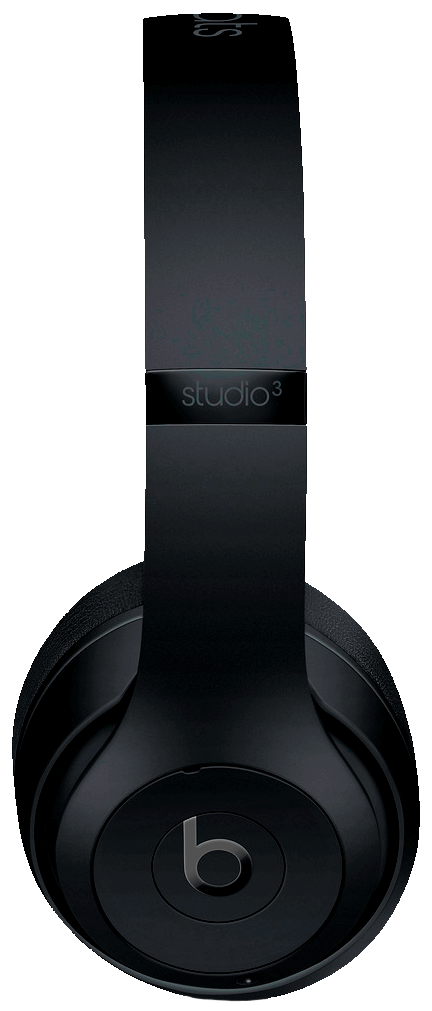
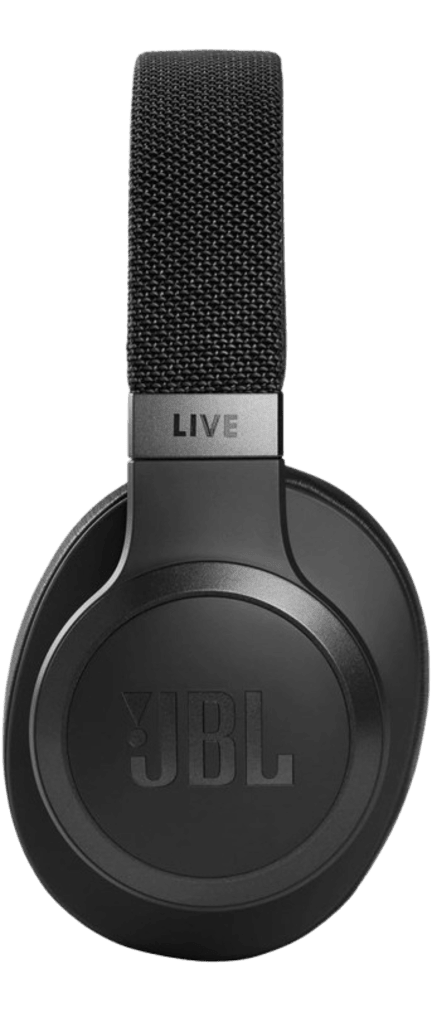
change brand to JBL

diff --git a/index.html b/index.html
@@ -5,7 +5,7 @@
     <meta name="viewport" content="width=device-width, initial-scale=1.0" />
 
     <!--=============== FAVICON ===============-->
-    <link rel="shortcut icon" href="img/favicon.png" type="image/x-icon" />
+    <link rel="shortcut icon" href="img/headphone.png" type="image/x-icon" />
 
     <!--=============== REMIX ICONS ===============-->
     <link
@@ -16,14 +16,14 @@
     <!--=============== CSS ===============-->
     <link rel="stylesheet" href="css/styles.css" />
 
-    <title>Headphones Website</title>
+    <title>JBL Headphones Website</title>
   </head>
   <body>
     <!--=============== HEADER ===============-->
     <header class="header" id="header">
       <nav class="nav container">
         <a href="#" class="nav_logo">
-          <img src="img/logo.png" alt="image" />
+          <img src="img/logo-img.png" alt="image" />
         </a>
 
         <div class="nav_menu" id="nav-menu">
@@ -62,16 +62,16 @@
 
           <div class="home_data">
             <div class="home_header">
-              <h1 class="home_title">On Ear</h1>
-              <h2 class="home_subtitle">Beats 3</h2>
+              <h1 class="home_title">Over-ear</h1>
+              <h2 class="home_subtitle">JBL 660</h2>
             </div>
 
             <div class="home_footer">
               <h3 class="home_title-description">Overview</h3>
               <p class="home_description">
-                Enjoy award-winning Beats sound with wireless listening freedom
-                and a sleek, streamlined design with comfortable padded
-                earphones, delivering first-rate playback.
+                Enjoy award-winning JBL sound with wireless listening freedom
+                and a sleek, streamlined design with comfortable cushioned
+                earcups that deliver premium playback for the user.
               </p>
               <a href="#" class="button button--flex">
                 <span class="button--flex">
@@ -127,7 +127,7 @@
           </div>
 
           <div>
-            <img src="img/specs.png" alt="image" class="specs_img" />
+            <img src="img/model-img.png" alt="image" class="specs_img" />
           </div>
         </div>
       </section>
@@ -138,7 +138,7 @@
 
         <div class="case_container container grid">
           <div>
-            <img src="img/case.png" alt="image" class="case_img" />
+            <img src="img/case-img.png" alt="image" class="case_img" />
           </div>
 
           <div class="case_data">
@@ -167,7 +167,7 @@
             </a>
           </div>
 
-          <img src="img/discount.png" alt="image" class="discount_img" />
+          <img src="img/1-img.png" alt="image" class="discount_img" />
         </div>
       </section>
 
@@ -181,7 +181,7 @@
         <div class="products_container container grid">
           <article class="products_card">
             <div class="products_content">
-              <img src="img/product1.png" alt="image" class="products_img" />
+              <img src="img/favorite-1.png" alt="image" class="products_img" />
 
               <h3 class="products_title">Black</h3>
               <span class="products_price">$249</span>
@@ -193,9 +193,9 @@
           </article>
           <article class="products_card">
             <div class="products_content">
-              <img src="img/product2.png" alt="image" class="products_img" />
+              <img src="img/favorite-2.png" alt="image" class="products_img" />
 
-              <h3 class="products_title">Red Black</h3>
+              <h3 class="products_title">White</h3>
               <span class="products_price">$249</span>
 
               <button class="button--flex products_button">
@@ -205,9 +205,9 @@
           </article>
           <article class="products_card">
             <div class="products_content">
-              <img src="img/product3.png" alt="image" class="products_img" />
+              <img src="img/favorite-3.png" alt="image" class="products_img" />
 
-              <h3 class="products_title">Night Black</h3>
+              <h3 class="products_title">Red</h3>
               <span class="products_price">$249</span>
 
               <button class="button--flex products_button">
@@ -217,21 +217,9 @@
           </article>
           <article class="products_card">
             <div class="products_content">
-              <img src="img/product4.png" alt="image" class="products_img" />
+              <img src="img/favorite-4.png" alt="image" class="products_img" />
 
-              <h3 class="products_title">Blue</h3>
-              <span class="products_price">$249</span>
-
-              <button class="button--flex products_button">
-                <i class="ri-shopping-bag-line button_icon"></i>
-              </button>
-            </div>
-          </article>
-          <article class="products_card">
-            <div class="products_content">
-              <img src="img/product5.png" alt="image" class="products_img" />
-
-              <h3 class="products_title">Twilight Gray</h3>
+              <h3 class="products_title">Light Blue</h3>
               <span class="products_price">$249</span>
 
               <button class="button--flex products_button">
@@ -247,7 +235,7 @@
     <footer class="footer section">
       <div class="footer_container container grid">
         <a href="#" class="footer_logo">
-          <img src="img/logo.png" alt="image" />
+          <img src="img/logo-img.png" alt="image" />
         </a>
 
         <div class="footer_content">

diff --git a/css/styles.css b/css/styles.css
@@ -12,7 +12,7 @@
   --white-color: #fff;
   --body-color: #0f0f10;
   --container-color: #181a1b;
-  --text-gradient: linear-gradient(#3b3e40, #141515);
+  --text-gradient: linear-gradient(#878f94, #292b2b);
   --scroll-thumb-color: #27292a;
   --scroll-thumb-color-alt: #313335;
   /* Font and Typography */
@@ -188,8 +188,6 @@ img {
   font-size: var(--h2-font-size);
   text-transform: uppercase;
   font-weight: var(--font-semi-bold);
-  background: var(--text-gradient);
-  color: transparent;
   -webkit-background-clip: text;
   background-clip: text;
   transition: 0.4s;
@@ -223,7 +221,7 @@ img {
 
 /* Active link */
 .active-link {
-  background: var(--white-color);
+  background: #ff6701;
   color: transparent;
   -webkit-background-clip: text;
   background-clip: text;
@@ -231,9 +229,9 @@ img {
 
 /*=============== HOME ===============*/
 .home_img {
-  width: 250px;
+  width: 450px;
   position: absolute;
-  top: -256px;
+  top: -300px;
   right: 24px;
 }
 
@@ -250,7 +248,7 @@ img {
   top: -64px;
   left: 16px;
   line-height: 96px;
-  font-size: var(--biggest-font-size);
+  font-size: var(--bigger-font-size);
   background: var(--text-gradient);
   color: transparent;
   -webkit-background-clip: text;
@@ -588,7 +586,7 @@ img {
   }
   .home_title {
     top: -64px;
-    font-size: var(--bigger-font-size);
+    font-size: var(--big-font-size);
   }
   .home_data {
     padding-top: 16px;
